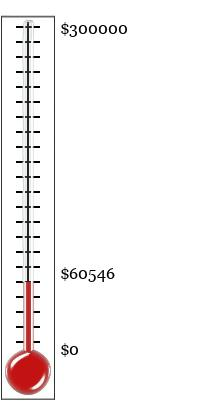
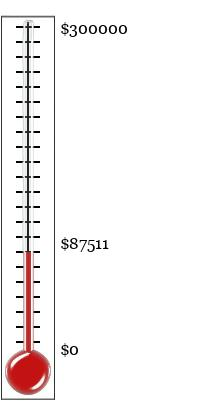
August 2022 funding update: 87,511; OpenBSD Amsterdam goes Bronze!; Community goes Platinum

Changed region(s): [[0.2857, 0.6519, 0.5429, 0.7111], [0.2857, 0.563, 0.5143, 0.6222], [0.0857, 0.6222, 0.1714, 0.7111]]

diff --git a/contributors.html b/contributors.html
@@ -110,18 +110,19 @@ On request we will provide a link to your website for donations of
     <UL>
         <LI> Iridium: $100,000 and above
         <LI> Platinum: $50,000 to $100,000
-        <LI> Gold: $25,000 to $50,000
             <UL>
                 <LI><A HREF=donations.html>Total from smaller donors</A>
             </UL>
+        <LI> Gold: $25,000 to $50,000
         <LI> Silver: $10,000 to $25,000
             <UL>
                 <LI><A HREF=http://www.genua.de>genua gmbh</A>
             </Ul>
         <LI> Bronze: $5,000 to $10,000
-	    <UL>
-	        <LI><A HREF=https://canary.tools>Thinkst Canary</A>
-	    </UL>
+            <UL>
+                <LI><A HREF=https://canary.tools>Thinkst Canary</A>
+                <LI><A HREF=https://openbsd.amsterdam>OpenBSD Amsterdam</A>
+            </UL>
     </UL>
 <HR>
     <A HREF=campaign2021.html><h4>2021 Fundraising Campaign</h4></A>
